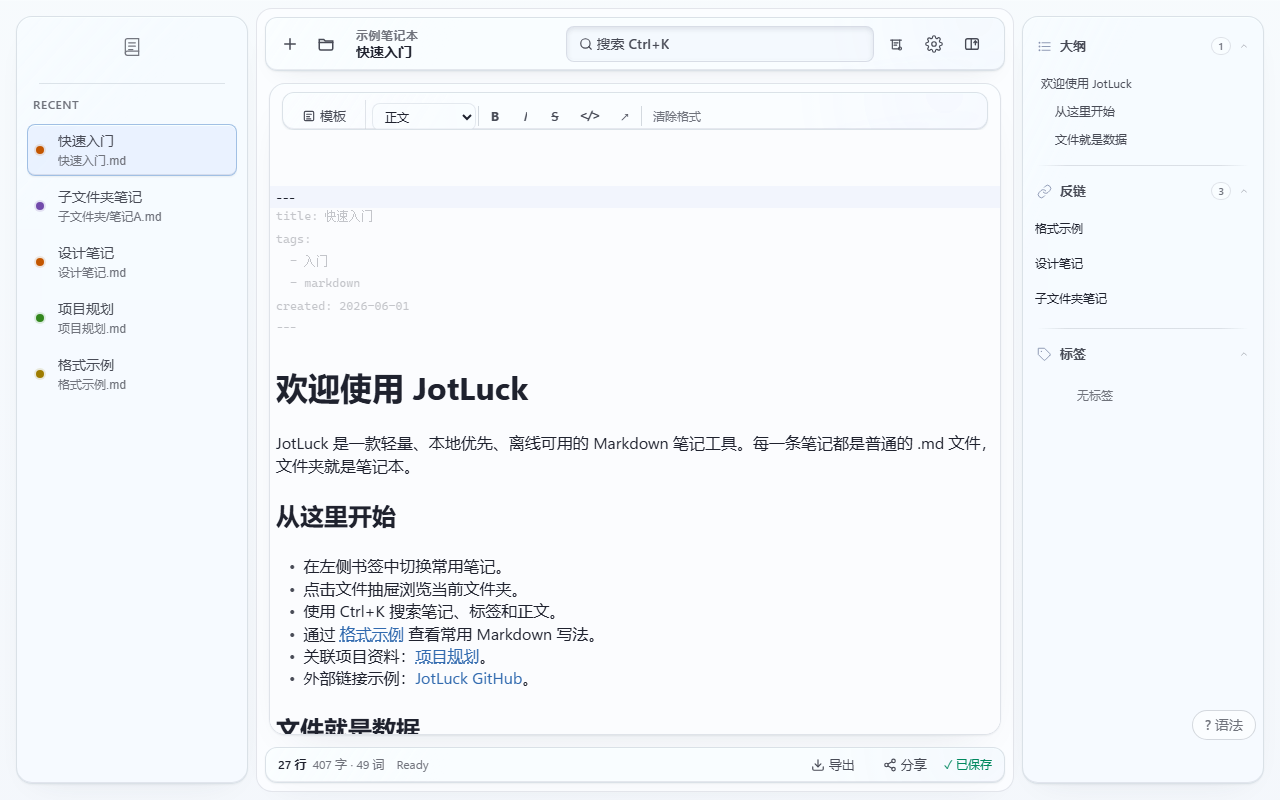
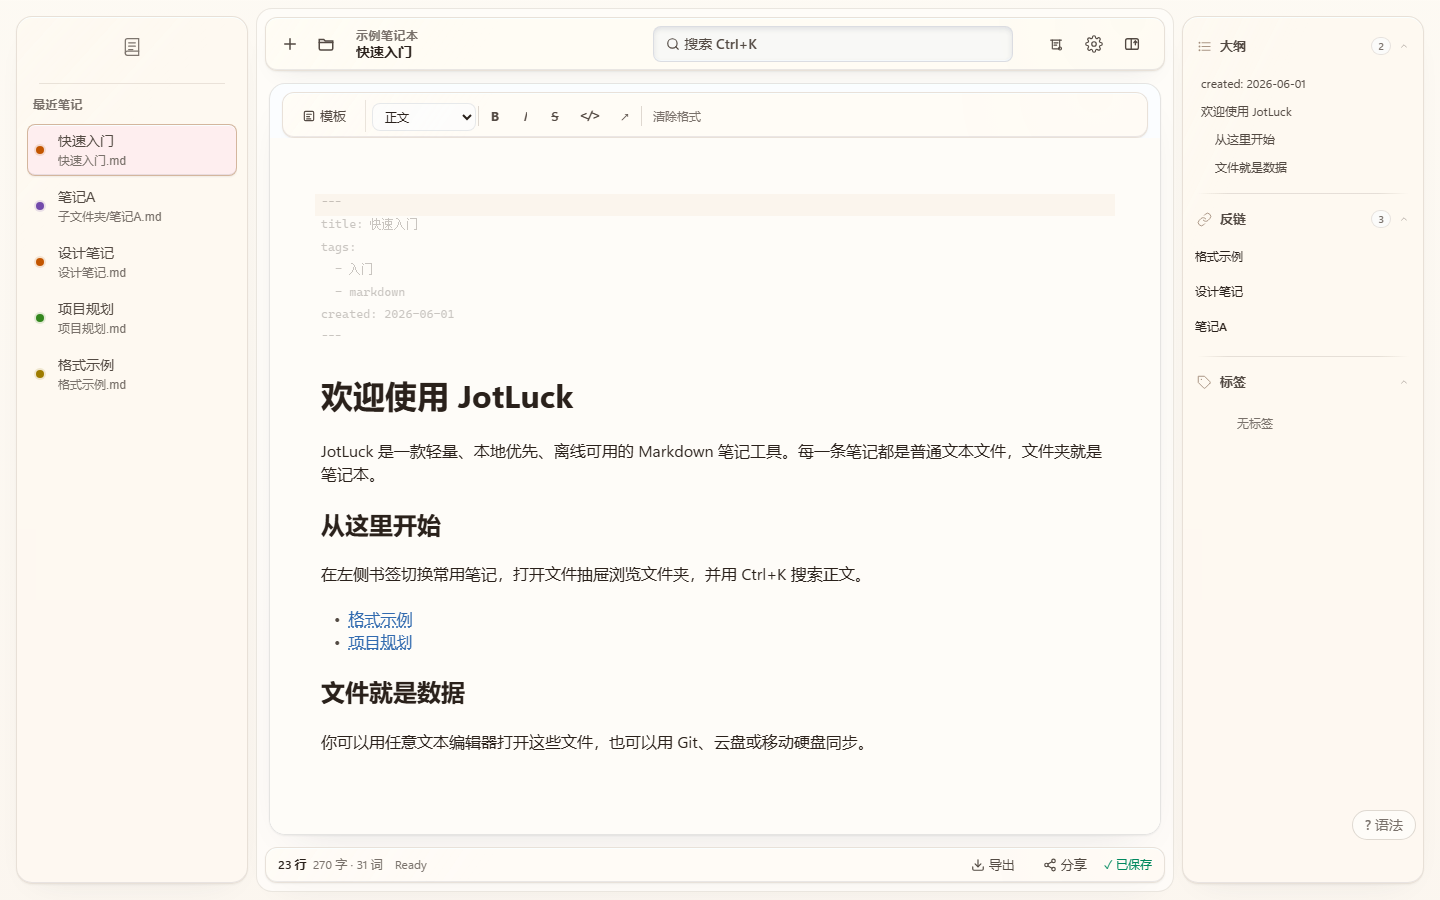
fix(ui): align theme previews and sticky readers

diff --git a/e2e/tests/24-official-theme-scroll-contract.spec.ts b/e2e/tests/24-official-theme-scroll-contract.spec.ts
@@ -1,0 +1,117 @@
+import { expect, test, type Page } from '@playwright/test';
+import {
+  ensureEditorReady,
+  resetAppState,
+  typeInEditor,
+  waitForAppReady,
+} from '../helpers/test-utils';
+
+const LUMEN_THEME_ID = 'jotluck.lumen-field';
+
+async function activateTheme(page: Page, themeId: string): Promise<void> {
+  await ensureEditorReady(page);
+  await page.evaluate((nextThemeId) => {
+    localStorage.setItem('jotluck:theme-state:v2', JSON.stringify({ activeThemeId: nextThemeId }));
+  }, themeId);
+  await page.reload({ waitUntil: 'domcontentloaded' });
+  await waitForAppReady(page);
+  await ensureEditorReady(page);
+  await expect(page.locator('html')).toHaveAttribute('data-theme-id', themeId);
+}
+
+test.describe('Official theme scroll ownership', () => {
+  test.beforeEach(async ({ page }) => {
+    await waitForAppReady(page);
+    await resetAppState(page);
+  });
+
+  test('keeps Lumen Field return-to-edit visible while its reader scrolls', async ({ page }) => {
+    await page.setViewportSize({ width: 1536, height: 912 });
+    await activateTheme(page, LUMEN_THEME_ID);
+
+    const sections = Array.from(
+      { length: 20 },
+      (_, index) => `## 第${index + 1}节\n\n这是一段用于验证暗场阅读滚动所有权的内容。`,
+    ).join('\n\n');
+    await typeInEditor(page, `# 暗场只读模式验收\n\n${sections}`, { insertText: true });
+
+    const bottomHandle = page.locator('.single-page-drawer-handle--bottom');
+    await expect(bottomHandle).toBeVisible();
+    await bottomHandle.click();
+    const drawerActions = page.locator('.lumen-command-deck__actions');
+    await drawerActions.getByRole('button', { name: '切换到分栏视图', exact: true }).click();
+    await drawerActions.getByRole('button', { name: '切换到只读渲染', exact: true }).click();
+    await page.keyboard.press('Escape');
+
+    const reader = page.locator(
+      '.lumen-slot-frame--editor-surface > .reader-workbench[data-view-mode="read"]',
+    );
+    const readerBar = reader.locator('.reader-workbench__bar');
+    const editButton = readerBar.getByRole('button', { name: '返回即时编辑', exact: true });
+    await expect(reader).toBeVisible();
+    await expect(reader).toHaveCSS('overflow-y', 'auto');
+    await expect(page.locator('.editor-area--single-page .editor-scroll')).toHaveCSS(
+      'overflow-y',
+      'hidden',
+    );
+    await expect(editButton).toBeVisible();
+    await expect(editButton).toBeFocused();
+
+    const barTop = await readerBar.evaluate((element) => element.getBoundingClientRect().top);
+    const scrollRange = await reader.evaluate(
+      (element) => element.scrollHeight - element.clientHeight,
+    );
+    expect(scrollRange).toBeGreaterThan(0);
+    await reader.evaluate((element) => {
+      element.scrollTop = Math.min(700, element.scrollHeight - element.clientHeight);
+    });
+    await expect.poll(() => reader.evaluate((element) => element.scrollTop)).toBeGreaterThan(0);
+    const barTopAfterScroll = await readerBar.evaluate(
+      (element) => element.getBoundingClientRect().top,
+    );
+    expect(Math.abs(barTopAfterScroll - barTop)).toBeLessThanOrEqual(1);
+    await expect(editButton).toBeVisible();
+
+    await editButton.press('Enter');
+    await expect(page.locator('.cm-editor')).toBeVisible();
+    await expect(page.locator('.cm-content')).toBeFocused();
+  });
+
+  test('keeps developer theme reader wrappers on the same sticky contract', async ({ page }) => {
+    await page.setViewportSize({ width: 1536, height: 912 });
+    const sections = Array.from(
+      { length: 20 },
+      (_, index) => `## 合同段落 ${index + 1}\n\n所有内置主题都必须保留可见的返回编辑入口。`,
+    ).join('\n\n');
+
+    for (const themeId of ['jotluck.ability-lab', 'jotluck.super-workbench'] as const) {
+      await activateTheme(page, themeId);
+      await typeInEditor(page, `# 内置主题滚动合同\n\n${sections}`, { insertText: true });
+
+      const splitAction = page.getByRole('button', { name: /^(切换到分栏视图|分栏)$/ });
+      if (await splitAction.first().isVisible()) await splitAction.first().click();
+      await page
+        .getByRole('button', { name: /^(切换到只读渲染|只读)$/ })
+        .first()
+        .click();
+
+      const reader = page.locator('.reader-workbench[data-view-mode="read"]');
+      const readerBar = reader.locator('.reader-workbench__bar');
+      const editButton = readerBar.locator('.shell-action--view-toggle');
+      await expect(reader).toHaveCSS('overflow-y', 'auto');
+      await expect(editButton).toBeVisible();
+      const barTop = await readerBar.evaluate((element) => element.getBoundingClientRect().top);
+      await reader.evaluate((element) => {
+        element.scrollTop = Math.min(700, element.scrollHeight - element.clientHeight);
+      });
+      await expect.poll(() => reader.evaluate((element) => element.scrollTop)).toBeGreaterThan(0);
+      const barTopAfterScroll = await readerBar.evaluate(
+        (element) => element.getBoundingClientRect().top,
+      );
+      expect(Math.abs(barTopAfterScroll - barTop)).toBeLessThanOrEqual(1);
+      await expect(editButton).toBeVisible();
+      await editButton.press('Enter');
+      await expect(page.locator('.cm-content')).toBeFocused();
+    }
+  });
+});

diff --git a/e2e/tests/23-halo-canvas-theme.spec.ts b/e2e/tests/23-halo-canvas-theme.spec.ts
@@ -49,7 +49,9 @@ async function activateHaloCanvas(page: Page, testInfo: TestInfo): Promise<void>
     .poll(() => haloPreview.evaluate((image) => (image as HTMLImageElement).naturalWidth), {
       timeout: 10_000,
     })
-    .toBeGreaterThan(0);
+    .toBe(1440);
+  await expect(haloCard).toContainText('暖纸工作台将最近笔记置于左栏');
+  await expect(haloCard).not.toContainText('银白云母环境');
 
   const activate = haloCard.getByRole('button', { name: '使用', exact: true });
   await expect(activate).toHaveCount(1);
@@ -304,6 +306,39 @@ test.describe('Halo Canvas official theme', () => {
       .locator('#jotluck-active-theme')
       .evaluate((element) => element.textContent ?? '');
     expect(activeThemeCss).not.toContain('halo-canvas');
+  });
+
+  test('keeps the default command deck outside the editor scroll plane', async ({
+    page,
+  }, testInfo: TestInfo) => {
+    await page.setViewportSize({ width: 1536, height: 912 });
+    await activateHaloCanvas(page, testInfo);
+
+    const geometry = await page.evaluate(() => {
+      const outerScroll = document.querySelector<HTMLElement>('.editor-scroll');
+      const dock = document.querySelector<HTMLElement>('.halo-command-deck');
+      const editorSurface = document.querySelector<HTMLElement>('.halo-frame--editor-surface');
+      if (!outerScroll || !dock || !editorSurface) {
+        throw new Error('Missing Halo command deck geometry.');
+      }
+      const outerRect = outerScroll.getBoundingClientRect();
+      const dockRect = dock.getBoundingClientRect();
+      const editorRect = editorSurface.getBoundingClientRect();
+      return {
+        outerOverflowY: window.getComputedStyle(outerScroll).overflowY,
+        outerScrollRange: outerScroll.scrollHeight - outerScroll.clientHeight,
+        dockTop: dockRect.top,
+        dockBottom: dockRect.bottom,
+        editorTop: editorRect.top,
+        outerTop: outerRect.top,
+      };
+    });
+
+    expect(geometry.outerOverflowY).toBe('hidden');
+    expect(geometry.outerScrollRange).toBe(0);
+    expect(geometry.dockTop).toBeGreaterThanOrEqual(geometry.outerTop);
+    expect(geometry.editorTop).toBeGreaterThanOrEqual(geometry.dockBottom - 1);
+    await expect(page.locator('.halo-command-deck .format-toolbar')).toBeVisible();
   });
 
   test('keeps a historical file usable across atomic save events and native copy', async ({

diff --git a/packages/app/src/locales/ja.ts b/packages/app/src/locales/ja.ts
@@ -564,12 +564,12 @@ export const messages = {
       },
       haloCanvas: {
         name: 'Halo Canvas',
-        headline: '明るいガラスコックピットの中の静かなキャンバス。',
+        headline: '最近のノート、執筆キャンバス、知識ツールを3列に常設。',
         story:
-          '銀色のマイカ環境がナビゲーションや知識ツールを抑制されたガラス区画にし、本文は安定して読みやすく保ちます。',
+          '暖かな紙のワークベンチで、左に最近のノート、中央に不透明な執筆キャンバス、右にアウトライン・被リンク・タグを配置し、上にコマンド、下に状態を常設します。',
         bestFor: "昼間の執筆{'|'}研究整理{'|'}長文編集{'|'}高密度の知識作業",
         features:
-          "銀色マイカ環境{'|'}浮遊ガラスツール{'|'}青紫のフォーカス{'|'}ネイティブコマンド群{'|'}静かな本文",
+          "常設3列ワークベンチ{'|'}左側の最近のノート{'|'}中央の不透明な執筆面{'|'}右側の知識インスペクター{'|'}コマンドと状態レール",
       },
       lumenField: {
         name: 'Lumen Field',

diff --git a/packages/app/src/locales/fr.ts b/packages/app/src/locales/fr.ts
@@ -579,13 +579,14 @@ export const messages = {
       },
       haloCanvas: {
         name: 'Halo Canvas',
-        headline: 'Une toile calme dans un cockpit de verre lumineux.',
+        headline:
+          'Notes récentes, toile d’écriture et outils de connaissance restent en trois colonnes.',
         story:
-          'Un environnement mica argenté transforme la navigation et les outils en baies de verre sobres tandis que le texte reste stable et lisible.',
+          'Un établi de papier chaud garde les notes récentes à gauche, une toile d’écriture opaque au centre et le plan, les liens retour et les tags à droite, avec les commandes en haut et l’état en bas.',
         bestFor:
           "Écriture de jour{'|'}Recherche{'|'}Textes longs{'|'}Travail dense de connaissances",
         features:
-          "Mica argenté{'|'}Baies de verre flottantes{'|'}Focalisation bleu-violet{'|'}Commandes natives{'|'}Toile calme",
+          "Établi permanent à trois colonnes{'|'}Notes récentes à gauche{'|'}Toile opaque au centre{'|'}Inspecteur de connaissances à droite{'|'}Rails de commande et d’état",
       },
       lumenField: {
         name: 'Lumen Field',

diff --git a/packages/app/src/locales/ko.ts b/packages/app/src/locales/ko.ts
@@ -562,12 +562,12 @@ export const messages = {
       },
       haloCanvas: {
         name: 'Halo Canvas',
-        headline: '밝은 유리 조종석 안의 조용한 캔버스.',
+        headline: '최근 노트, 글쓰기 캔버스와 지식 도구를 3열에 상시 배치합니다.',
         story:
-          '은빛 운모 환경이 탐색과 지식 도구를 절제된 유리 구역으로 만들고 본문은 안정적이고 읽기 쉽게 유지합니다.',
+          '따뜻한 종이 작업대의 왼쪽에는 최근 노트, 가운데에는 불투명한 글쓰기 캔버스, 오른쪽에는 개요·백링크·태그를 두고 위에는 명령, 아래에는 상태를 유지합니다.',
         bestFor: "낮 글쓰기{'|'}연구 정리{'|'}장문 편집{'|'}고밀도 지식 작업",
         features:
-          "은빛 운모 환경{'|'}떠 있는 유리 도구 구역{'|'}청보라 초점{'|'}기본 명령 도구{'|'}조용한 본문",
+          "상시 3열 작업대{'|'}왼쪽 최근 노트{'|'}가운데 불투명 글쓰기 캔버스{'|'}오른쪽 지식 검사기{'|'}명령 및 상태 레일",
       },
       lumenField: {
         name: 'Lumen Field',

diff --git a/packages/app/src/locales/en.ts b/packages/app/src/locales/en.ts
@@ -574,12 +574,12 @@ export const messages = {
       },
       haloCanvas: {
         name: 'Halo Canvas',
-        headline: 'A quiet canvas inside a bright glass cockpit.',
+        headline: 'Recent notes, the writing canvas and knowledge tools stay in three columns.',
         story:
-          'A silver mica environment turns navigation, commands and knowledge tools into restrained glass bays while the writing canvas remains solid and readable.',
+          'A warm-paper workbench keeps recent notes on the left, an opaque writing canvas in the centre, and outline, backlinks and tags on the right, with commands above and status below.',
         bestFor: "Daytime writing{'|'}Research{'|'}Long-form editing{'|'}Dense knowledge work",
         features:
-          "Silver mica environment{'|'}Floating glass tool bays{'|'}Blue-violet focus refraction{'|'}Native command group{'|'}Quiet writing canvas",
+          "Persistent three-column workbench{'|'}Recent notes on the left{'|'}Opaque centred writing canvas{'|'}Knowledge inspector on the right{'|'}Command and status rails",
       },
       lumenField: {
         name: 'Lumen Field',

diff --git a/packages/app/src/locales/zh-CN.ts b/packages/app/src/locales/zh-CN.ts
@@ -556,12 +556,12 @@ export const messages = {
       },
       haloCanvas: {
         name: '光环画布（Halo Canvas）',
-        headline: '一张安静画布，置于明亮的玻璃驾驶舱中。',
+        headline: '最近笔记、写作画布与知识检查器常驻三栏。',
         story:
-          '银白云母环境将导航、命令与知识检查器化为克制的玻璃工具舱；正文画布保持稳定、不透明且易读。',
+          '暖纸工作台将最近笔记置于左栏，写作画布居中，大纲、反链与标签置于右栏；顶部命令栏和底部状态栏保持常驻。',
         bestFor: "日间写作{'|'}研究整理{'|'}长文编辑{'|'}高密度知识工作",
         features:
-          "云母银白环境场{'|'}悬浮玻璃工具舱{'|'}蓝紫焦点折射{'|'}原生命令工具组{'|'}安静正文画布",
+          "三栏常驻工作台{'|'}左侧最近笔记{'|'}居中不透明写作画布{'|'}右侧知识检查器{'|'}顶部命令与底部状态",
       },
       lumenField: {
         name: '光场知识舱',

diff --git a/packages/app/src/themes/lumen-field/index.ts b/packages/app/src/themes/lumen-field/index.ts
@@ -315,6 +315,27 @@ export function createLumenFieldModule(): OfficialThemeModule {
   height: 100%;
 }
 
+[data-theme-id='jotluck.lumen-field'] .editor-area--single-page .editor-scroll {
+  overflow: hidden;
+}
+
+[data-theme-id='jotluck.lumen-field'] .lumen-slot-frame--editor-surface {
+  display: flex;
+  flex-direction: column;
+  overflow: hidden;
+}
+
+[data-theme-id='jotluck.lumen-field'] .lumen-slot-frame--editor-surface > .markdown-editor,
+[data-theme-id='jotluck.lumen-field'] .lumen-slot-frame--editor-surface > .reader-workbench,
+[data-theme-id='jotluck.lumen-field'] .lumen-slot-frame--editor-surface > .split-pane {
+  flex: 1 1 auto;
+  min-height: 0;
+}
+
+[data-theme-id='jotluck.lumen-field'] .lumen-slot-frame--editor-surface > .reader-workbench {
+  overflow: hidden auto;
+}
+
 [data-theme-id='jotluck.lumen-field'] .workflow-canvas {
   background: transparent;
 }

diff --git a/packages/app/src/components/theme/__tests__/ThemeDialog.test.ts b/packages/app/src/components/theme/__tests__/ThemeDialog.test.ts
@@ -42,6 +42,8 @@ describe('ThemeDialog', () => {
     expect(text).toContain('来自可信来源');
     expect(text).toContain('羽翼布局');
     expect(text).toContain('光环画布（Halo Canvas）');
+    expect(text).toContain('暖纸工作台将最近笔记置于左栏');
+    expect(text).not.toContain('银白云母环境');
     expect(text).toContain('光场知识舱');
     expect(text).not.toContain('能力验证台');
     expect(text).not.toContain('超级工作台');

diff --git a/packages/app/src/themes/halo-canvas/halo-canvas.css b/packages/app/src/themes/halo-canvas/halo-canvas.css
@@ -42,6 +42,7 @@
 }
 
 [data-theme-id='jotluck.halo-canvas'] .app-shell .editor-scroll {
+  overflow: hidden;
   overscroll-behavior: contain;
 }
 
@@ -492,6 +493,7 @@
 /* A compact macOS-like glass toolbar keeps all native host actions in one layer. */
 [data-theme-id='jotluck.halo-canvas'] .halo-command-deck {
   display: block;
+  flex: 0 0 auto;
   margin: var(--space-8) var(--space-12) 0;
   padding: var(--space-4) var(--space-6);
   border-radius: var(--radius-md);

diff --git a/packages/app/src/themes/super-workbench/index.ts b/packages/app/src/themes/super-workbench/index.ts
@@ -39,6 +39,10 @@ export function createSuperWorkbenchModule(): OfficialThemeModule {
     var(--paper-bg);
 }
 
+[data-theme-id='jotluck.super-workbench'] .editor-scroll {
+  overflow: hidden;
+}
+
 [data-theme-id='jotluck.super-workbench'] .super-topbar {
   min-height: var(--topbar-height);
   display: grid;

diff --git a/spec/frontend/components.md b/spec/frontend/components.md
@@ -42,7 +42,7 @@
 
 ## Markdown 编辑与预览
 
-- 工作区切换到只读渲染时，`view-toggle` 不再服从主题的普通工具栏位置，必须进入正文阅读栏右侧并随阅读滚动吸顶；入口显示“返回编辑”短标签。模式切换后焦点交给该入口，从只读返回后焦点交还编辑器，主题不得把唯一恢复入口放回可滚走或已退出交互层的区域。
+- 工作区切换到只读渲染时，`view-toggle` 不再服从主题的普通工具栏位置，必须进入正文阅读栏右侧并随阅读滚动吸顶；入口显示“返回编辑”短标签。模式切换后焦点交给该入口，从只读返回后焦点交还编辑器，主题不得把唯一恢复入口放回可滚走或已退出交互层的区域。主题包裹 `editor-surface` 时必须建立受约束的纵向 flex 容器，并让 `reader-workbench` 自身承担滚动；外层 Shell 或 slot wrapper 不得成为只读正文的实际滚动容器。
 - `MarkdownEditor` 的 Live Preview 通过可选同步 `resolveImageSrc` 解析图片地址，并以 `imageRevision` 重建异步加载完成后的渲染块；未提供时保持原始 renderer 行为。
 - `MarkdownEditor` 必须安装工作区级稳定 Predictor 和编辑器会话级 `CompletionDocumentContextField`；输入热路径只传单调 document revision 与有界上下文快照，不把 `doc.toString()` 或全文 fingerprint 交给补全服务。
 - 补全调度分为 composition 稳定后立即运行的结构化平面，以及 40ms 防抖、仅 paragraph/list/quote 行尾运行的预测平面；两者共享单 ghost、无菜单、Tab/Escape 交互。
@@ -105,11 +105,14 @@
 
 - 主题入口位于 TopBar，打开主题中心。
 - 主题中心必须显示本地市场、已安装、导入、商业状态和开发者信息。
+- 官方主题卡片的名称、简介、特性和预览图必须描述当前运行时的真实布局与视觉；预览图只能取自同一主题当前视觉基线通过后的真实运行时截图，主题结构或主色发生变化时必须同步更新。
 - 不提供宿主级明暗切换；多 scheme 只能由单个主题 manifest 自行声明。
 - 切换主题不得打断当前编辑、搜索、导出、外部单文件会话或草稿流程。
 - 外部只读窗口不得挂载文件树、编辑器、导出、索引、监听、补全或更新检查；进入 workspace 后这些目录级组件才可异步初始化。
 
 ## 变更记录
+
+- 2026-08-11：明确主题 `editor-surface` 的只读滚动所有权，以及官方主题文案和预览图必须与当前真实运行时一致。
 
 - 2026-08-05：补充 V2.2 CM6 增量上下文、双平面、精确 TextEdit、retained 反馈和异步身份边界。
 
